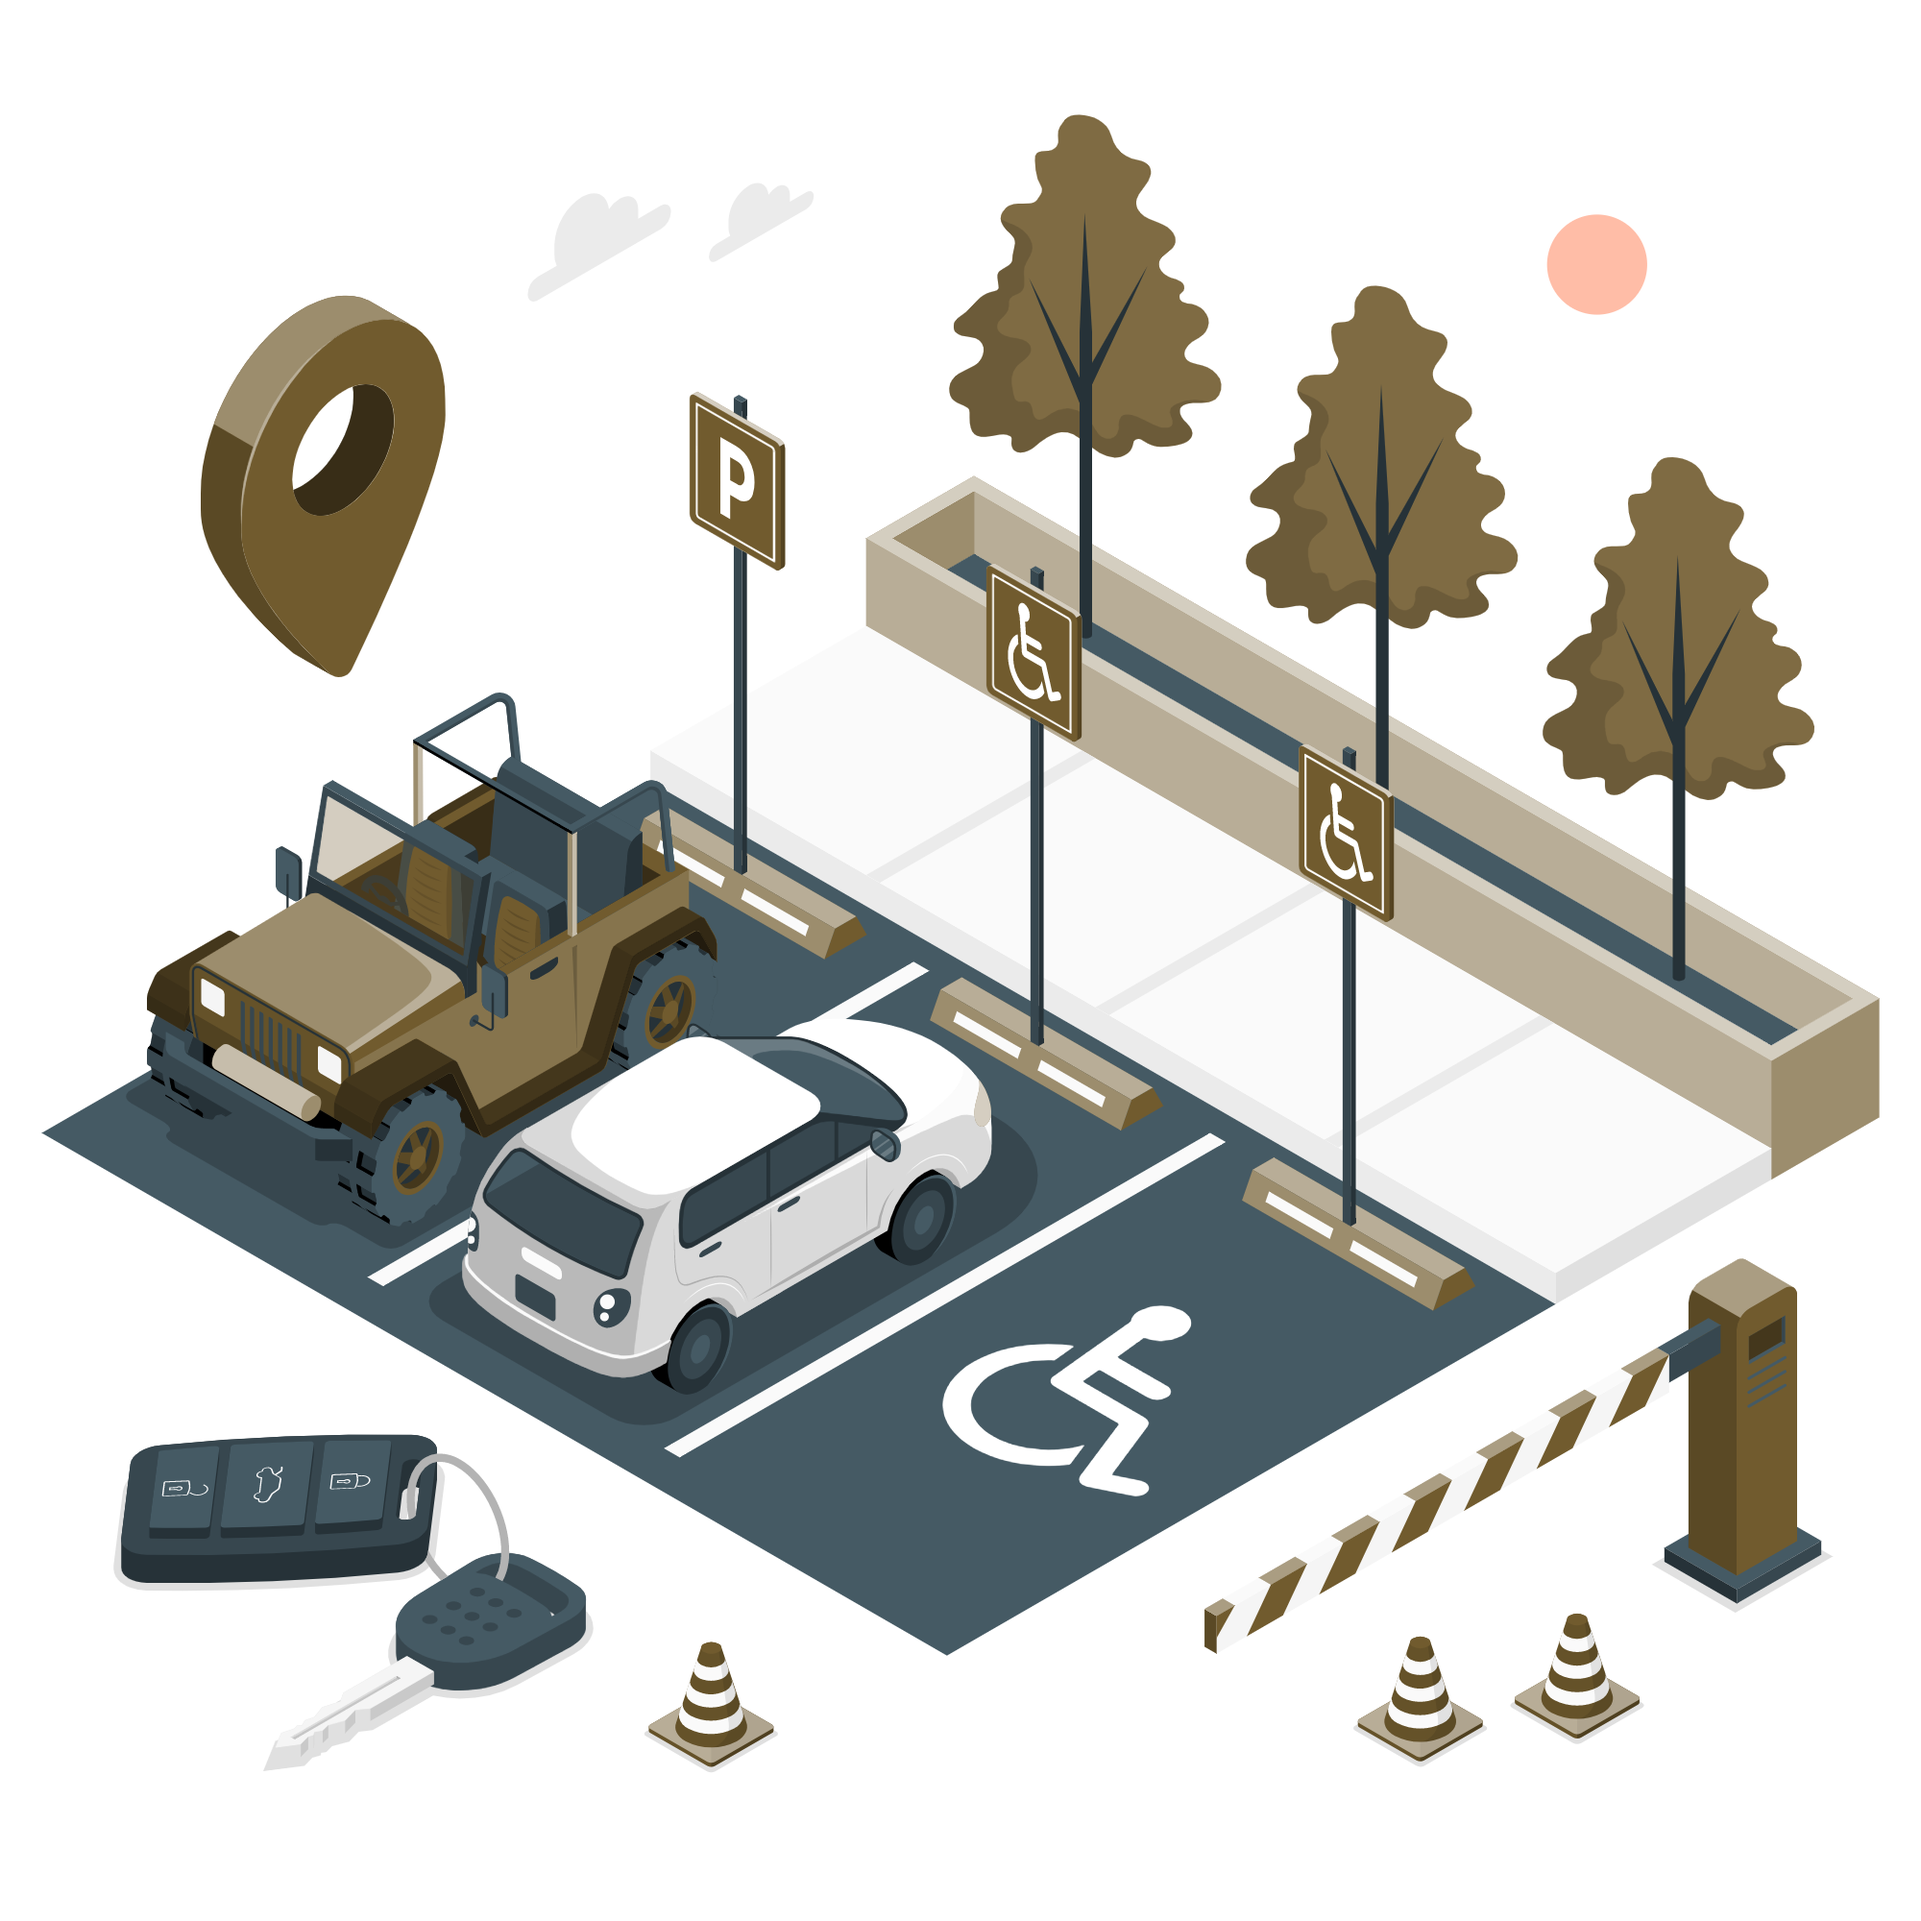
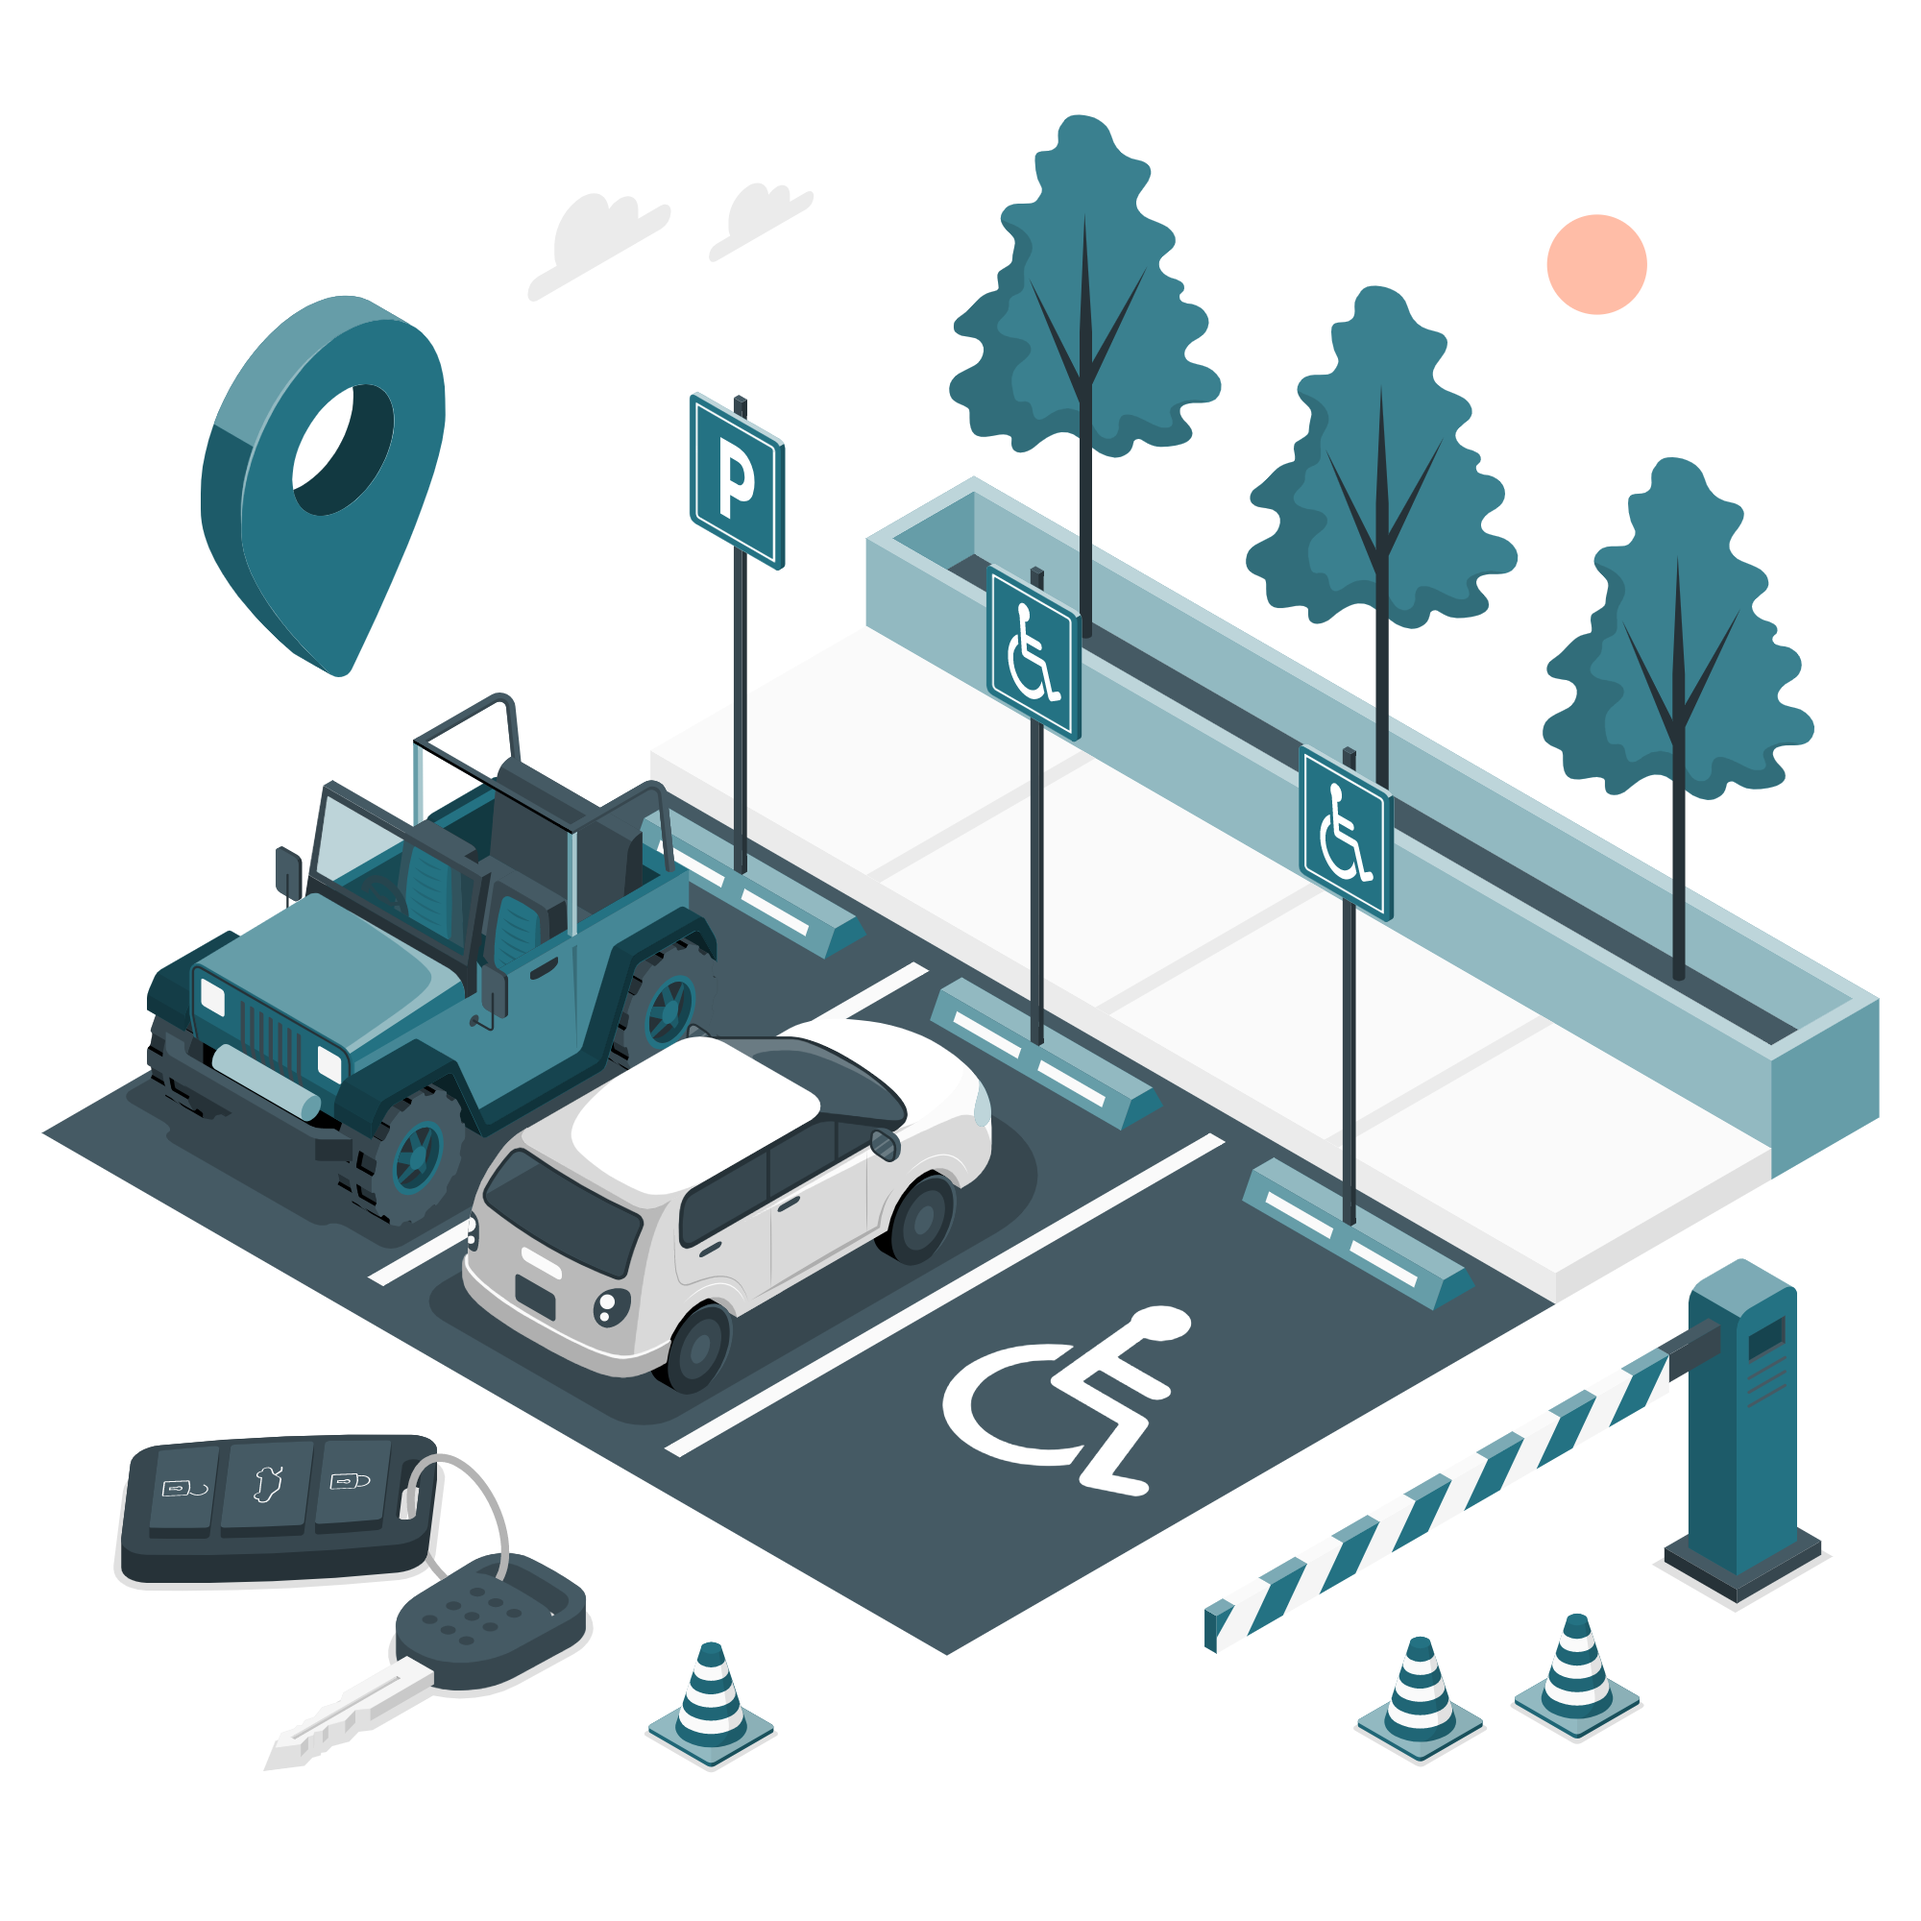
update graphic charter

diff --git a/public/assets/css/colors.css b/public/assets/css/colors.css
@@ -1,10 +1,10 @@
 :root {
-  --v-driver-primary: #9B824F;
+  --v-driver-primary: #247283;
   --v-driver-primary-light: #9b824f26;
-  --v-driver-primary-dark: #715B2E;
+  --v-driver-primary-dark: #221D75;
   --v-driver-dark: rgba(0, 0, 0, 0.67);
   --v-driver-gray: rgba(255, 255, 255, 0.723);
-  --v-driver-primary-gradient: linear-gradient(101.12deg, #9B824F 52.16%, rgba(155, 130, 79, 0) 100.97%);;
+  --v-driver-primary-gradient: linear-gradient(101.12deg, #247283 52.16%, rgba(155, 130, 79, 0) 100.97%);;
 }
 
 .v-driver-primary {

diff --git a/resources/views/partials/footer.blade.php b/resources/views/partials/footer.blade.php
@@ -3,7 +3,7 @@
   <footer id="footer" class="v-driver-bg-dark text-white pb-3 pt-3">
     <div class="container footer-bottom clearfix text-center">
       <div class="copyright">
-        &copy; Copyright 2023 <strong><span class="v-driver-fw-semi-bold" >V-Driver</span></strong>. Tout droit réservé
+        &copy; Copyright 2023 <strong><span class="v-driver-fw-semi-bold" >SOGEAC</span></strong>. Tout droit réservé
       </div>
     </div>
   </footer>

diff --git a/resources/views/partials/header.blade.php b/resources/views/partials/header.blade.php
@@ -1,7 +1,7 @@
 <!-- ======= Header ======= -->
   <header id="header" class="fixed-top">
     <div class=" ps-5">
-      <h1 class="logo me-auto text-white"><a href="{{ route('home') }}">V-Driver</a></h1>
+      <h1 class="logo me-auto text-white"><a href="{{ route('home') }}"><img height="45px" src="assets/images/logo-light.png"alt=""></a></h1>
     </div>
   </header>
 <!-- End Header -->

diff --git a/resources/views/admin.blade.php b/resources/views/admin.blade.php
@@ -8,7 +8,7 @@
     <link rel="shortcut icon" href="/favicon.ico" type="image/x-icon">
     <link rel="stylesheet" href="{{ asset('assets/css/bootstrap.min.css') }}">
     <link rel="stylesheet" href="{{ asset('assets/css/style.css') }}">
-    <title>V-Driver | Admin</title>
+    <title>SOGEAC | Admin</title>
 </head>
 
 <body id="body-pd">

diff --git a/resources/views/master.blade.php b/resources/views/master.blade.php
@@ -8,7 +8,7 @@
     <link rel="shortcut icon" href="/favicon.ico" type="image/x-icon">
     <link rel="stylesheet" href="{{ asset('assets/css/bootstrap.min.css') }}">
     <link rel="stylesheet" href="{{ asset('assets/css/style.css') }}">
-    <title>V-Driver</title>
+    <title>SOGEAC</title>
 </head>
 
 <body>
